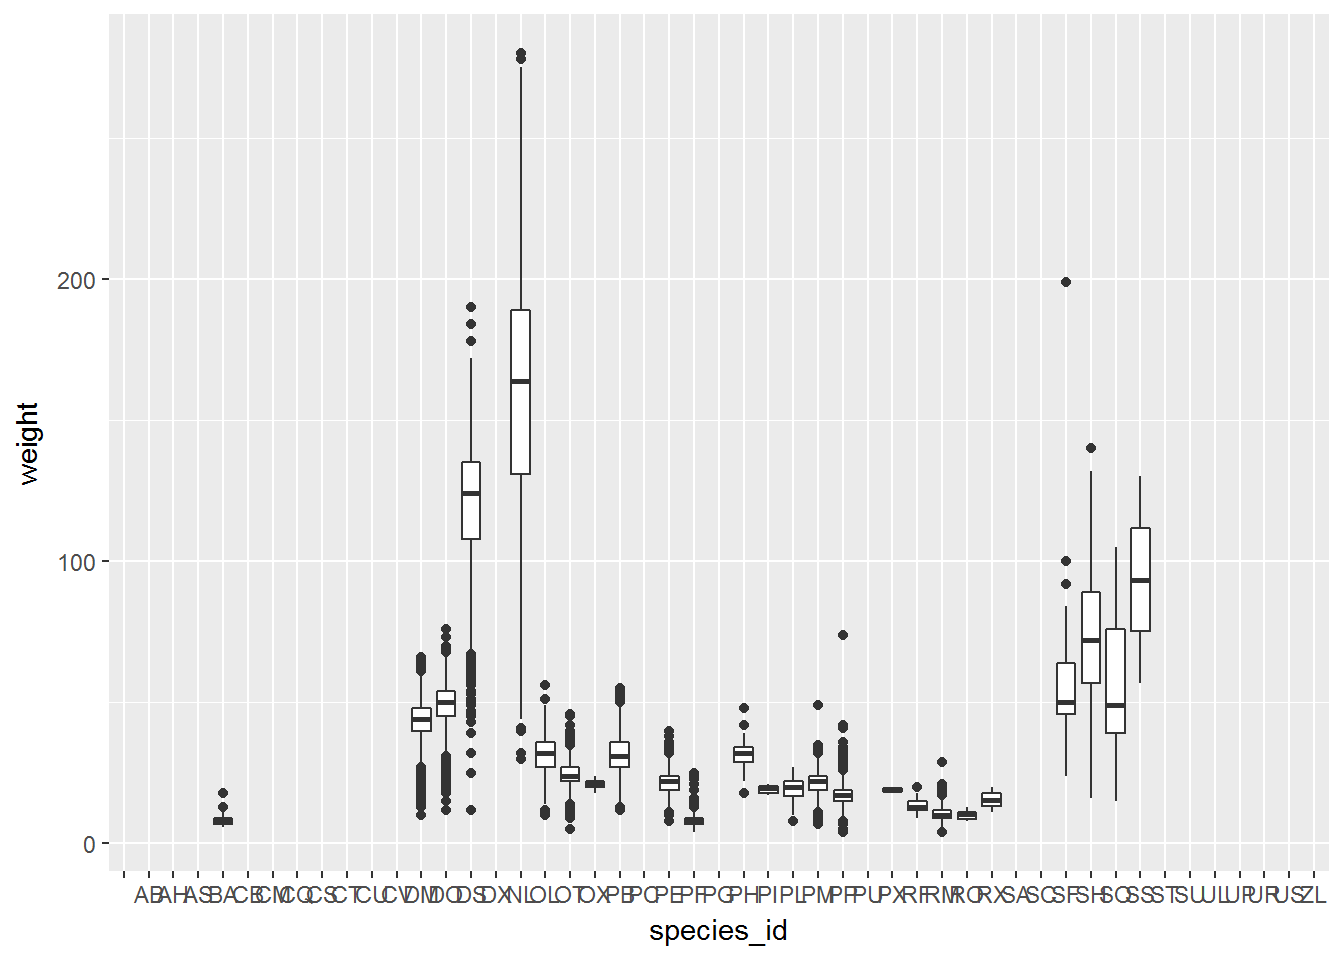
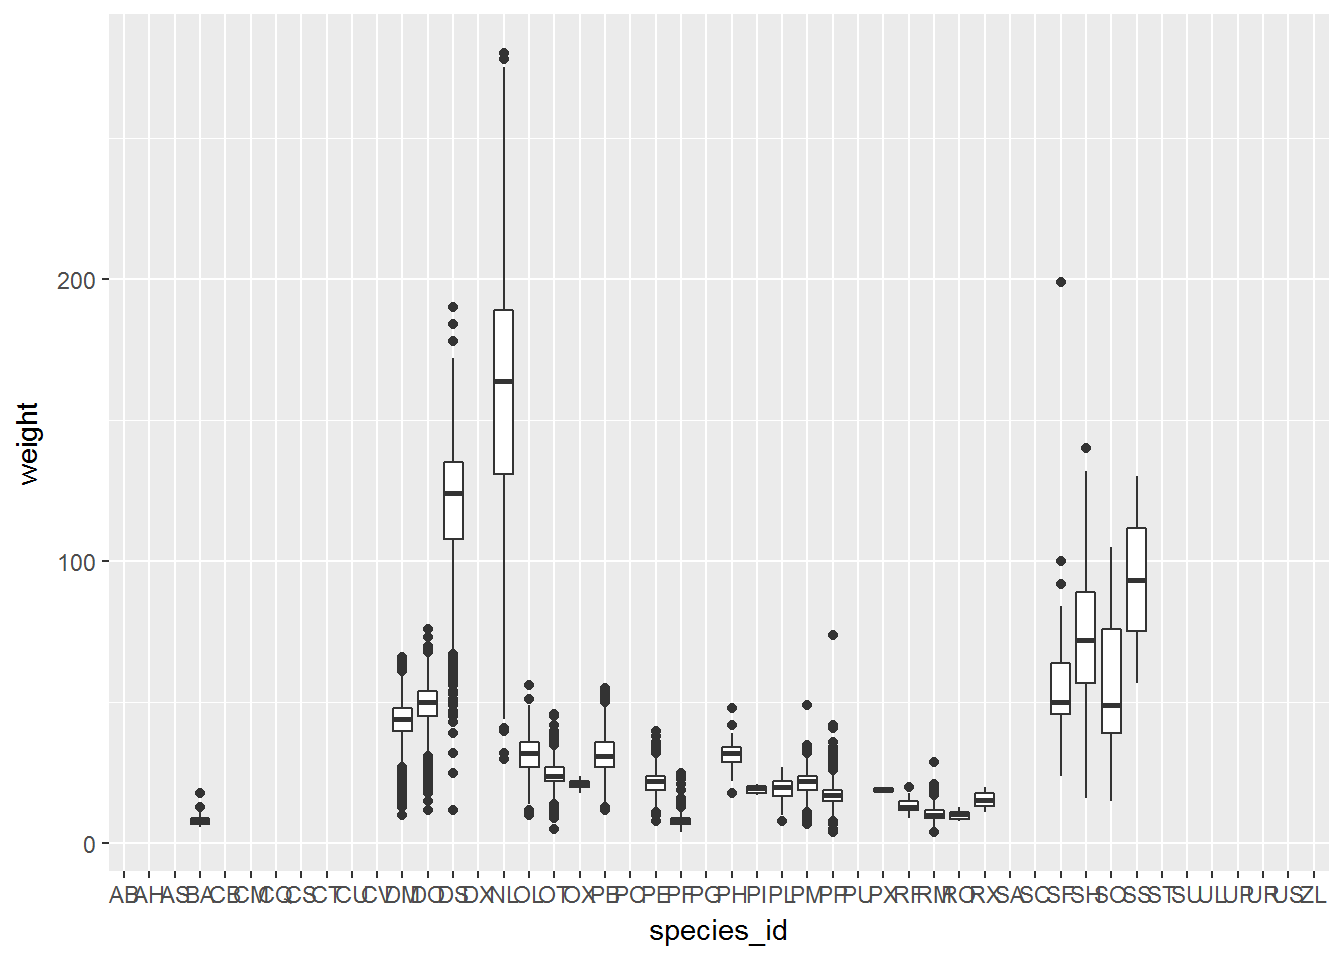
changed refs to survey data in viz file to be consistent with other files

diff --git a/04-visualization-ggplot2.html b/04-visualization-ggplot2.html
@@ -452,27 +452,27 @@ s +<span class="st"> </span><span class="kw">geom_point</span>(<span class="kw">
 <div id="analysis-of-ecology-data" class="section level2">
 <h2>Analysis of ecology data</h2>
 <p>Now let’s start visualizing some real data. If not still in the workspace, load the data we saved in the previous lesson.</p>
-<div class="sourceCode"><pre class="sourceCode r"><code class="sourceCode r">surveys_complete &lt;-<span class="st"> </span><span class="kw">read.csv</span>(<span class="st">&#39;data/surveys.csv&#39;</span>)</code></pre></div>
+<div class="sourceCode"><pre class="sourceCode r"><code class="sourceCode r">surveys &lt;-<span class="st"> </span><span class="kw">read.csv</span>(<span class="st">&#39;data/portal_data_joined.csv&#39;</span>)</code></pre></div>
 <p>When plotting scatterplots, ggplot likes data in the ‘long’ format: i.e., a column for every dimension, and a row for every observation. However, when plotting barplots where the height of the bars are counts or percents, pre-aggregated data (e.g., the output from a series of <code>dplyr</code> commands) may work better. Well-structured data will save you lots of time when making figures with ggplot.</p>
 <p>To create a scatterplot of hind foot length versus weight, we need to:</p>
 <ul>
 <li>bind the plot to a specific data frame using the <code>data</code> argument</li>
 </ul>
-<div class="sourceCode"><pre class="sourceCode r"><code class="sourceCode r"><span class="kw">ggplot</span>(<span class="dt">data =</span> surveys_complete)</code></pre></div>
+<div class="sourceCode"><pre class="sourceCode r"><code class="sourceCode r"><span class="kw">ggplot</span>(<span class="dt">data =</span> surveys )</code></pre></div>
 <ul>
 <li>define aesthetics (<code>aes</code>), by selecting the variables to be plotted and the scales to define the geoms</li>
 </ul>
-<div class="sourceCode"><pre class="sourceCode r"><code class="sourceCode r"><span class="kw">ggplot</span>(<span class="dt">data =</span> surveys_complete, <span class="kw">aes</span>(<span class="dt">x =</span> weight, <span class="dt">y =</span> hindfoot_length))</code></pre></div>
+<div class="sourceCode"><pre class="sourceCode r"><code class="sourceCode r"><span class="kw">ggplot</span>(<span class="dt">data =</span> surveys , <span class="kw">aes</span>(<span class="dt">x =</span> weight, <span class="dt">y =</span> hindfoot_length))</code></pre></div>
 <ul>
 <li>add <code>geoms</code> – graphical representation of the data in the plot (points, lines, bars). To add a geom to the plot use <code>+</code> operator</li>
 </ul>
-<div class="sourceCode"><pre class="sourceCode r"><code class="sourceCode r"><span class="kw">ggplot</span>(<span class="dt">data =</span> surveys_complete, <span class="kw">aes</span>(<span class="dt">x =</span> weight, <span class="dt">y =</span> hindfoot_length)) +
+<div class="sourceCode"><pre class="sourceCode r"><code class="sourceCode r"><span class="kw">ggplot</span>(<span class="dt">data =</span> surveys, <span class="kw">aes</span>(<span class="dt">x =</span> weight, <span class="dt">y =</span> hindfoot_length)) +
 <span class="st">  </span><span class="kw">geom_point</span>()</code></pre></div>
-<pre><code>#&gt; Warning: Removed 4811 rows containing missing values (geom_point).</code></pre>
+<pre><code>#&gt; Warning: Removed 4048 rows containing missing values (geom_point).</code></pre>
 <p><img src="img/R-ecology-first-ggplot-1.png" width="672" /></p>
 <p>Recall that the <code>+</code> in the <strong><code>ggplot2</code></strong> package allows you to modify existing <code>ggplot</code> objects. This means you can easily set up plot “templates” and conveniently explore different types of plots, so the above plot can also be generated with code like this:</p>
 <div class="sourceCode"><pre class="sourceCode r"><code class="sourceCode r"><span class="co"># Assign plot to a variable</span>
-surveys_plot &lt;-<span class="st"> </span><span class="kw">ggplot</span>(<span class="dt">data =</span> surveys_complete, <span class="kw">aes</span>(<span class="dt">x =</span> weight, <span class="dt">y =</span> hindfoot_length))
+surveys_plot &lt;-<span class="st"> </span><span class="kw">ggplot</span>(<span class="dt">data =</span> surveys , <span class="kw">aes</span>(<span class="dt">x =</span> weight, <span class="dt">y =</span> hindfoot_length))
 
 <span class="co"># Draw the plot</span>
 surveys_plot +<span class="st"> </span><span class="kw">geom_point</span>()</code></pre></div>
@@ -491,7 +491,7 @@ surveys_plot
   +<span class="st"> </span><span class="kw">geom_point</span>()</code></pre></div>
 <blockquote>
 <h3 id="challenge-optional">Challenge (optional)</h3>
-<p>Scatter plots can be useful exploratory tools for small datasets. For data sets with large numbers of observations, such as the <code>surveys_complete</code> data set, overplotting of points can be a limitation of scatter plots. One strategy for handling such settings is to use hexagonal binning of observations. The plot space is tessellated into hexagons. Each hexagon is assigned a color based on the number of observations that fall within its boundaries. To use hexagonal binning with <strong><code>ggplot2</code></strong>, first install the R package <code>hexbin</code> from CRAN:</p>
+<p>Scatter plots can be useful exploratory tools for small datasets. For data sets with large numbers of observations, such as the <code>surveys</code> data set, overplotting of points can be a limitation of scatter plots. One strategy for handling such settings is to use hexagonal binning of observations. The plot space is tessellated into hexagons. Each hexagon is assigned a color based on the number of observations that fall within its boundaries. To use hexagonal binning with <strong><code>ggplot2</code></strong>, first install the R package <code>hexbin</code> from CRAN:</p>
 <div class="sourceCode"><pre class="sourceCode r"><code class="sourceCode r"><span class="kw">install.packages</span>(<span class="st">&quot;hexbin&quot;</span>)</code></pre></div>
 <p>Then use the <code>geom_hex()</code> function:</p>
 <div class="sourceCode"><pre class="sourceCode r"><code class="sourceCode r">surveys_plot +
@@ -504,24 +504,24 @@ surveys_plot
 <div id="building-your-plots-iteratively" class="section level2">
 <h2>Building your plots iteratively</h2>
 <p>Building plots with ggplot is typically an iterative process. We start by defining the dataset we’ll use, lay the axes, and choose a geom:</p>
-<div class="sourceCode"><pre class="sourceCode r"><code class="sourceCode r"><span class="kw">ggplot</span>(<span class="dt">data =</span> surveys_complete, <span class="kw">aes</span>(<span class="dt">x =</span> weight, <span class="dt">y =</span> hindfoot_length)) +
+<div class="sourceCode"><pre class="sourceCode r"><code class="sourceCode r"><span class="kw">ggplot</span>(<span class="dt">data =</span> surveys , <span class="kw">aes</span>(<span class="dt">x =</span> weight, <span class="dt">y =</span> hindfoot_length)) +
 <span class="st">    </span><span class="kw">geom_point</span>()</code></pre></div>
-<pre><code>#&gt; Warning: Removed 4811 rows containing missing values (geom_point).</code></pre>
+<pre><code>#&gt; Warning: Removed 4048 rows containing missing values (geom_point).</code></pre>
 <p><img src="img/R-ecology-create-ggplot-object-1.png" width="672" /></p>
 <p>Then, we start modifying this plot to extract more information from it. For instance, we can add transparency (<code>alpha</code>) to avoid overplotting:</p>
-<div class="sourceCode"><pre class="sourceCode r"><code class="sourceCode r"><span class="kw">ggplot</span>(<span class="dt">data =</span> surveys_complete, <span class="kw">aes</span>(<span class="dt">x =</span> weight, <span class="dt">y =</span> hindfoot_length)) +
+<div class="sourceCode"><pre class="sourceCode r"><code class="sourceCode r"><span class="kw">ggplot</span>(<span class="dt">data =</span> surveys , <span class="kw">aes</span>(<span class="dt">x =</span> weight, <span class="dt">y =</span> hindfoot_length)) +
 <span class="st">    </span><span class="kw">geom_point</span>(<span class="dt">alpha =</span> <span class="fl">0.1</span>)</code></pre></div>
-<pre><code>#&gt; Warning: Removed 4811 rows containing missing values (geom_point).</code></pre>
+<pre><code>#&gt; Warning: Removed 4048 rows containing missing values (geom_point).</code></pre>
 <p><img src="img/R-ecology-adding-transparency-1.png" width="672" /></p>
 <p>We can also add colors for all the points:</p>
-<div class="sourceCode"><pre class="sourceCode r"><code class="sourceCode r"><span class="kw">ggplot</span>(<span class="dt">data =</span> surveys_complete, <span class="kw">aes</span>(<span class="dt">x =</span> weight, <span class="dt">y =</span> hindfoot_length)) +
+<div class="sourceCode"><pre class="sourceCode r"><code class="sourceCode r"><span class="kw">ggplot</span>(<span class="dt">data =</span> surveys , <span class="kw">aes</span>(<span class="dt">x =</span> weight, <span class="dt">y =</span> hindfoot_length)) +
 <span class="st">    </span><span class="kw">geom_point</span>(<span class="dt">alpha =</span> <span class="fl">0.1</span>, <span class="dt">color =</span> <span class="st">&quot;blue&quot;</span>)</code></pre></div>
-<pre><code>#&gt; Warning: Removed 4811 rows containing missing values (geom_point).</code></pre>
+<pre><code>#&gt; Warning: Removed 4048 rows containing missing values (geom_point).</code></pre>
 <p><img src="img/R-ecology-adding-colors-1.png" width="672" /></p>
 <p>Or to color each species in the plot differently:</p>
-<div class="sourceCode"><pre class="sourceCode r"><code class="sourceCode r"><span class="kw">ggplot</span>(<span class="dt">data =</span> surveys_complete, <span class="kw">aes</span>(<span class="dt">x =</span> weight, <span class="dt">y =</span> hindfoot_length)) +
+<div class="sourceCode"><pre class="sourceCode r"><code class="sourceCode r"><span class="kw">ggplot</span>(<span class="dt">data =</span> surveys , <span class="kw">aes</span>(<span class="dt">x =</span> weight, <span class="dt">y =</span> hindfoot_length)) +
 <span class="st">    </span><span class="kw">geom_point</span>(<span class="dt">alpha =</span> <span class="fl">0.1</span>, <span class="kw">aes</span>(<span class="dt">color=</span>species_id))</code></pre></div>
-<pre><code>#&gt; Warning: Removed 4811 rows containing missing values (geom_point).</code></pre>
+<pre><code>#&gt; Warning: Removed 4048 rows containing missing values (geom_point).</code></pre>
 <p><img src="img/R-ecology-color-by-species-1.png" width="672" /></p>
 <blockquote>
 <h3 id="challenge-2">Challenge</h3>
@@ -531,16 +531,16 @@ surveys_plot
 <div id="boxplot" class="section level2">
 <h2>Boxplot</h2>
 <p>We can use boxplots to visualize the distribution of weight within each species:</p>
-<div class="sourceCode"><pre class="sourceCode r"><code class="sourceCode r"><span class="kw">ggplot</span>(<span class="dt">data =</span> surveys_complete, <span class="kw">aes</span>(<span class="dt">x =</span> species_id, <span class="dt">y =</span> weight)) +
+<div class="sourceCode"><pre class="sourceCode r"><code class="sourceCode r"><span class="kw">ggplot</span>(<span class="dt">data =</span> surveys , <span class="kw">aes</span>(<span class="dt">x =</span> species_id, <span class="dt">y =</span> weight)) +
 <span class="st">    </span><span class="kw">geom_boxplot</span>()</code></pre></div>
-<pre><code>#&gt; Warning: Removed 3266 rows containing non-finite values (stat_boxplot).</code></pre>
+<pre><code>#&gt; Warning: Removed 2503 rows containing non-finite values (stat_boxplot).</code></pre>
 <p><img src="img/R-ecology-boxplot-1.png" width="672" /></p>
 <p>By adding points to boxplot, we can have a better idea of the number of measurements and of their distribution:</p>
-<div class="sourceCode"><pre class="sourceCode r"><code class="sourceCode r"><span class="kw">ggplot</span>(<span class="dt">data =</span> surveys_complete, <span class="kw">aes</span>(<span class="dt">x =</span> species_id, <span class="dt">y =</span> weight)) +
+<div class="sourceCode"><pre class="sourceCode r"><code class="sourceCode r"><span class="kw">ggplot</span>(<span class="dt">data =</span> surveys , <span class="kw">aes</span>(<span class="dt">x =</span> species_id, <span class="dt">y =</span> weight)) +
 <span class="st">    </span><span class="kw">geom_boxplot</span>(<span class="dt">alpha =</span> <span class="dv">0</span>) +
 <span class="st">    </span><span class="kw">geom_jitter</span>(<span class="dt">alpha =</span> <span class="fl">0.3</span>, <span class="dt">color =</span> <span class="st">&quot;tomato&quot;</span>)</code></pre></div>
-<pre><code>#&gt; Warning: Removed 3266 rows containing non-finite values (stat_boxplot).</code></pre>
-<pre><code>#&gt; Warning: Removed 3266 rows containing missing values (geom_point).</code></pre>
+<pre><code>#&gt; Warning: Removed 2503 rows containing non-finite values (stat_boxplot).</code></pre>
+<pre><code>#&gt; Warning: Removed 2503 rows containing missing values (geom_point).</code></pre>
 <p><img src="img/R-ecology-boxplot-with-points-1.png" width="672" /></p>
 <p>Notice how the boxplot layer is behind the jitter layer? What do you need to change in the code to put the boxplot in front of the points such that it’s not hidden?</p>
 <blockquote>
@@ -567,12 +567,12 @@ surveys_plot
 <h2>Bar graphs</h2>
 <p>Bar graphs are frequently used for visualizing the number of observations in each category of a categorical variable, or summary statistics (like a mean or median) of a quantitative variable across levels of a categorical variable.</p>
 <p>By default, <code>ggplot</code> counts the number of observations in each level and plots those counts on the y-axis. For example, consider plotting the number of each sex in the data set:</p>
-<div class="sourceCode"><pre class="sourceCode r"><code class="sourceCode r"><span class="kw">ggplot</span>(<span class="dt">data =</span> surveys_complete, <span class="kw">aes</span>(<span class="dt">x =</span> sex)) +
+<div class="sourceCode"><pre class="sourceCode r"><code class="sourceCode r"><span class="kw">ggplot</span>(<span class="dt">data =</span> surveys , <span class="kw">aes</span>(<span class="dt">x =</span> sex)) +
 <span class="st">    </span><span class="kw">geom_bar</span>()</code></pre></div>
 <p><img src="img/R-ecology-sex-bargraph-1.png" width="672" /></p>
 <p>However, what if we wanted to visualize the average hind foot length for each sex instead?<br />
 We first need to use <code>dplyr</code> to group the data by sex and compute the mean length. We can also filter out the unlabeled sexes:</p>
-<div class="sourceCode"><pre class="sourceCode r"><code class="sourceCode r">length_sex &lt;-<span class="st"> </span>surveys_complete %&gt;%
+<div class="sourceCode"><pre class="sourceCode r"><code class="sourceCode r">length_sex &lt;-<span class="st"> </span>surveys  %&gt;%
 <span class="st">  </span><span class="kw">group_by</span>(sex) %&gt;%
 <span class="st">  </span><span class="kw">summarise</span>(<span class="dt">mean_length =</span> <span class="kw">mean</span>(hindfoot_length, <span class="dt">na.rm=</span><span class="ot">TRUE</span>)) %&gt;%
 <span class="st">  </span><span class="kw">filter</span>(sex !=<span class="st"> &#39;&#39;</span>)
@@ -598,7 +598,7 @@ length_sex</code></pre></div>
 <div id="plotting-time-series-data" class="section level2">
 <h2>Plotting time series data</h2>
 <p>Let’s calculate number of counts per year for each species. First we need to group the data and count records within each group:</p>
-<div class="sourceCode"><pre class="sourceCode r"><code class="sourceCode r">yearly_counts &lt;-<span class="st"> </span>surveys_complete %&gt;%
+<div class="sourceCode"><pre class="sourceCode r"><code class="sourceCode r">yearly_counts &lt;-<span class="st"> </span>surveys  %&gt;%
 <span class="st">                 </span><span class="kw">group_by</span>(year, species_id) %&gt;%
 <span class="st">                 </span>tally</code></pre></div>
 <p>Timelapse data can be visualized as a line plot with years on the x axis and counts on the y axis:</p>
@@ -638,7 +638,7 @@ length_sex</code></pre></div>
 #&gt; adjust the group aesthetic?</code></pre>
 <p><img src="img/R-ecology-first-facet-1.png" width="672" /></p>
 <p>Now we would like to split the line in each plot by the sex of each individual measured. To do that we need to make counts in the data frame grouped by <code>year</code>, <code>species_id</code>, and <code>sex</code>:</p>
-<div class="sourceCode"><pre class="sourceCode r"><code class="sourceCode r"> yearly_sex_counts &lt;-<span class="st"> </span>surveys_complete %&gt;%
+<div class="sourceCode"><pre class="sourceCode r"><code class="sourceCode r"> yearly_sex_counts &lt;-<span class="st"> </span>surveys  %&gt;%
 <span class="st">                      </span><span class="kw">group_by</span>(year, species_id, sex) %&gt;%
 <span class="st">                      </span>tally</code></pre></div>
 <p>We can now make the faceted plot by splitting further by sex using <code>color</code> (within a single plot):</p>
@@ -699,7 +699,7 @@ length_sex</code></pre></div>
 <!-- Answer
 
 ```r
-yearly_weight <- surveys_complete %>%
+yearly_weight <- surveys  %>%
                  group_by(year, species_id) %>%
                  summarize(avg_weight = mean(weight))
 ggplot(data = yearly_weight, aes(x=year, y=avg_weight)) +
@@ -709,7 +709,7 @@ ggplot(data = yearly_weight, aes(x=year, y=avg_weight)) +
 ```
 
 ```
-#> Warning: Removed 115 rows containing missing values (geom_path).
+#> Warning: Removed 89 rows containing missing values (geom_path).
 ```
 
 ```
@@ -730,7 +730,7 @@ ggplot(data = yearly_weight, aes(x=year, y=avg_weight)) +
 <p>The <code>facet_wrap</code> geometry extracts plots into an arbitrary number of dimensions to allow them to cleanly fit on one page. On the other hand, the <code>facet_grid</code> geometry allows you to explicitly specify how you want your plots to be arranged via formula notation (<code>rows ~ columns</code>; a <code>.</code> can be used as a placeholder that indicates only one row or column).</p>
 <p>Let’s modify the previous plot to compare how the weights of males and females has changed through time:</p>
 <div class="sourceCode"><pre class="sourceCode r"><code class="sourceCode r"><span class="co"># One column, facet by rows</span>
-yearly_sex_weight &lt;-<span class="st"> </span>surveys_complete %&gt;%
+yearly_sex_weight &lt;-<span class="st"> </span>surveys  %&gt;%
 <span class="st">    </span><span class="kw">group_by</span>(year, sex, species_id) %&gt;%
 <span class="st">    </span><span class="kw">summarize</span>(<span class="dt">avg_weight =</span> <span class="kw">mean</span>(weight))
 <span class="kw">ggplot</span>(<span class="dt">data =</span> yearly_sex_weight, <span class="kw">aes</span>(<span class="dt">x=</span>year, <span class="dt">y=</span>avg_weight, <span class="dt">color =</span> species_id)) +
@@ -832,10 +832,10 @@ yearly_sex_weight &lt;-<span class="st"> </span>surveys_complete %&gt;%
 <div class="sourceCode"><pre class="sourceCode r"><code class="sourceCode r">grey_theme &lt;-<span class="st"> </span><span class="kw">theme</span>(<span class="dt">axis.text.x =</span> <span class="kw">element_text</span>(<span class="dt">colour=</span><span class="st">&quot;grey20&quot;</span>, <span class="dt">size=</span><span class="dv">12</span>, <span class="dt">angle=</span><span class="dv">90</span>, <span class="dt">hjust=</span>.<span class="dv">5</span>, <span class="dt">vjust=</span>.<span class="dv">5</span>),
                           <span class="dt">axis.text.y =</span> <span class="kw">element_text</span>(<span class="dt">colour=</span><span class="st">&quot;grey20&quot;</span>, <span class="dt">size=</span><span class="dv">12</span>),
                           <span class="dt">text=</span><span class="kw">element_text</span>(<span class="dt">size=</span><span class="dv">16</span>))
-<span class="kw">ggplot</span>(surveys_complete, <span class="kw">aes</span>(<span class="dt">x =</span> species_id, <span class="dt">y =</span> hindfoot_length)) +
+<span class="kw">ggplot</span>(surveys , <span class="kw">aes</span>(<span class="dt">x =</span> species_id, <span class="dt">y =</span> hindfoot_length)) +
 <span class="st">    </span><span class="kw">geom_boxplot</span>() +
 <span class="st">    </span>grey_theme</code></pre></div>
-<pre><code>#&gt; Warning: Removed 4111 rows containing non-finite values (stat_boxplot).</code></pre>
+<pre><code>#&gt; Warning: Removed 3348 rows containing non-finite values (stat_boxplot).</code></pre>
 <p><img src="img/R-ecology-number-species-year-with-right-labels-xfont-orientation-1.png" width="672" /></p>
 <blockquote>
 <h3 id="challange">Challange</h3>
@@ -867,7 +867,7 @@ yearly_sex_weight &lt;-<span class="st"> </span>surveys_complete %&gt;%
 <span class="kw">ggsave</span>(<span class="st">&quot;name_of_file.png&quot;</span>, my_plot, <span class="dt">width=</span><span class="dv">15</span>, <span class="dt">height=</span><span class="dv">10</span>)</code></pre></div>
 <p>Note: The parameters <code>width</code> and <code>height</code> also determine the font size in the saved plot.</p>
 <p style="text-align: right; font-size: small;">
-Page build on: 2017-08-15 08:38:04
+Page build on: 2017-08-15 10:21:58
 </p>
 </div>
 
